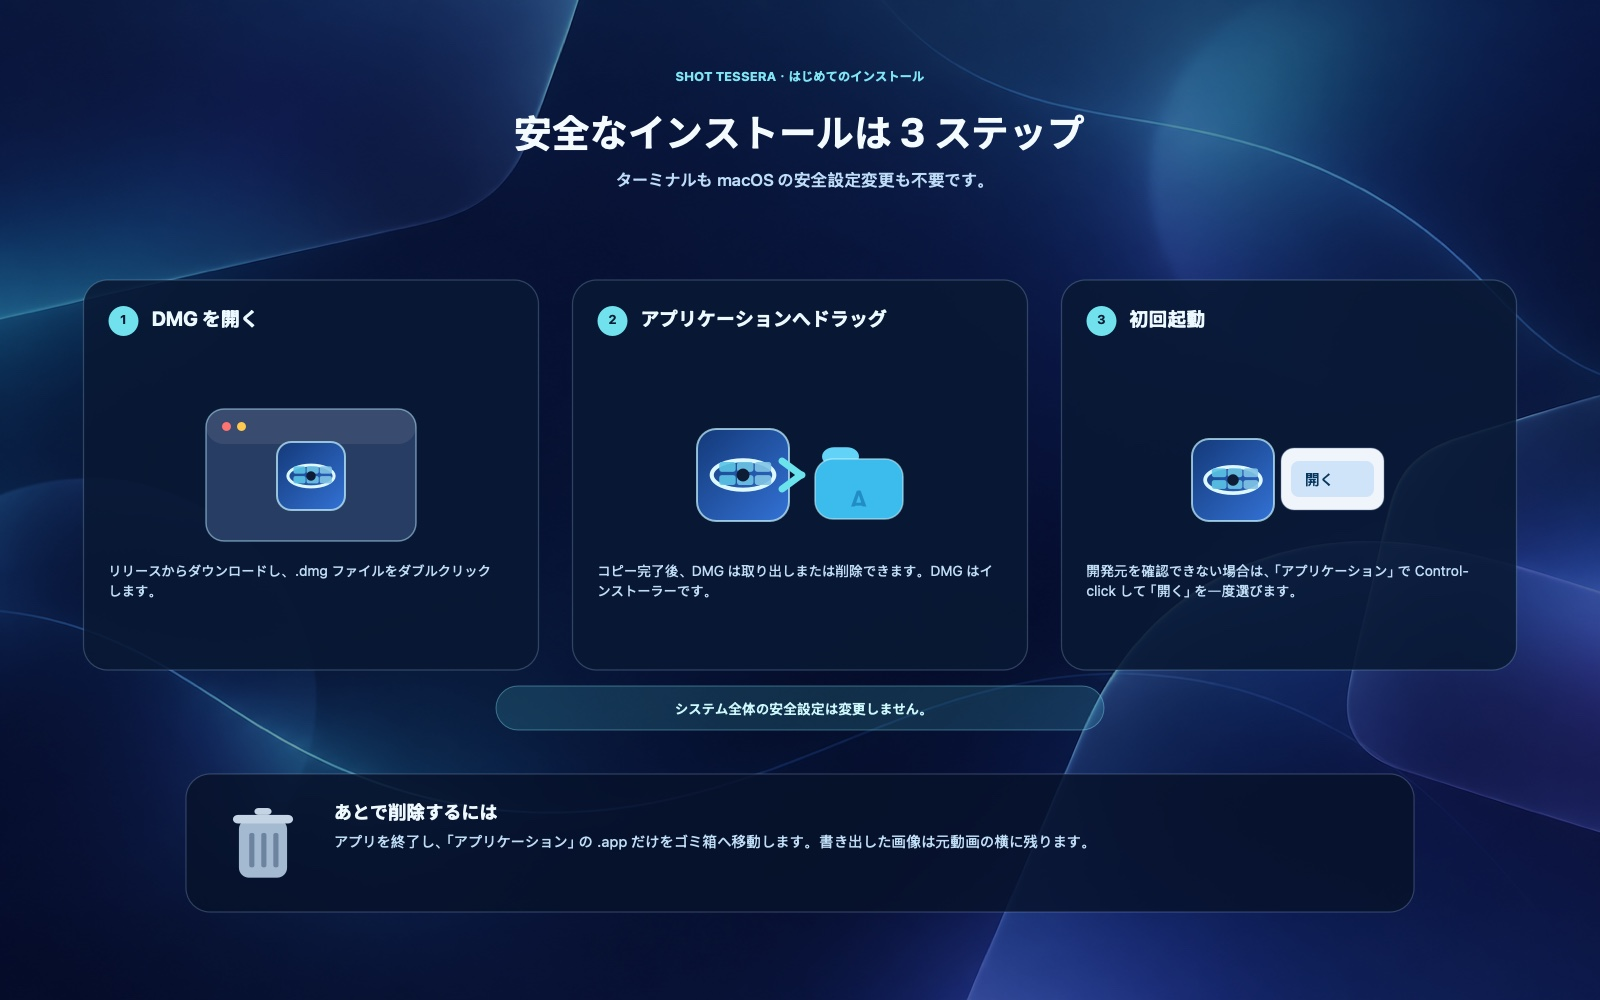
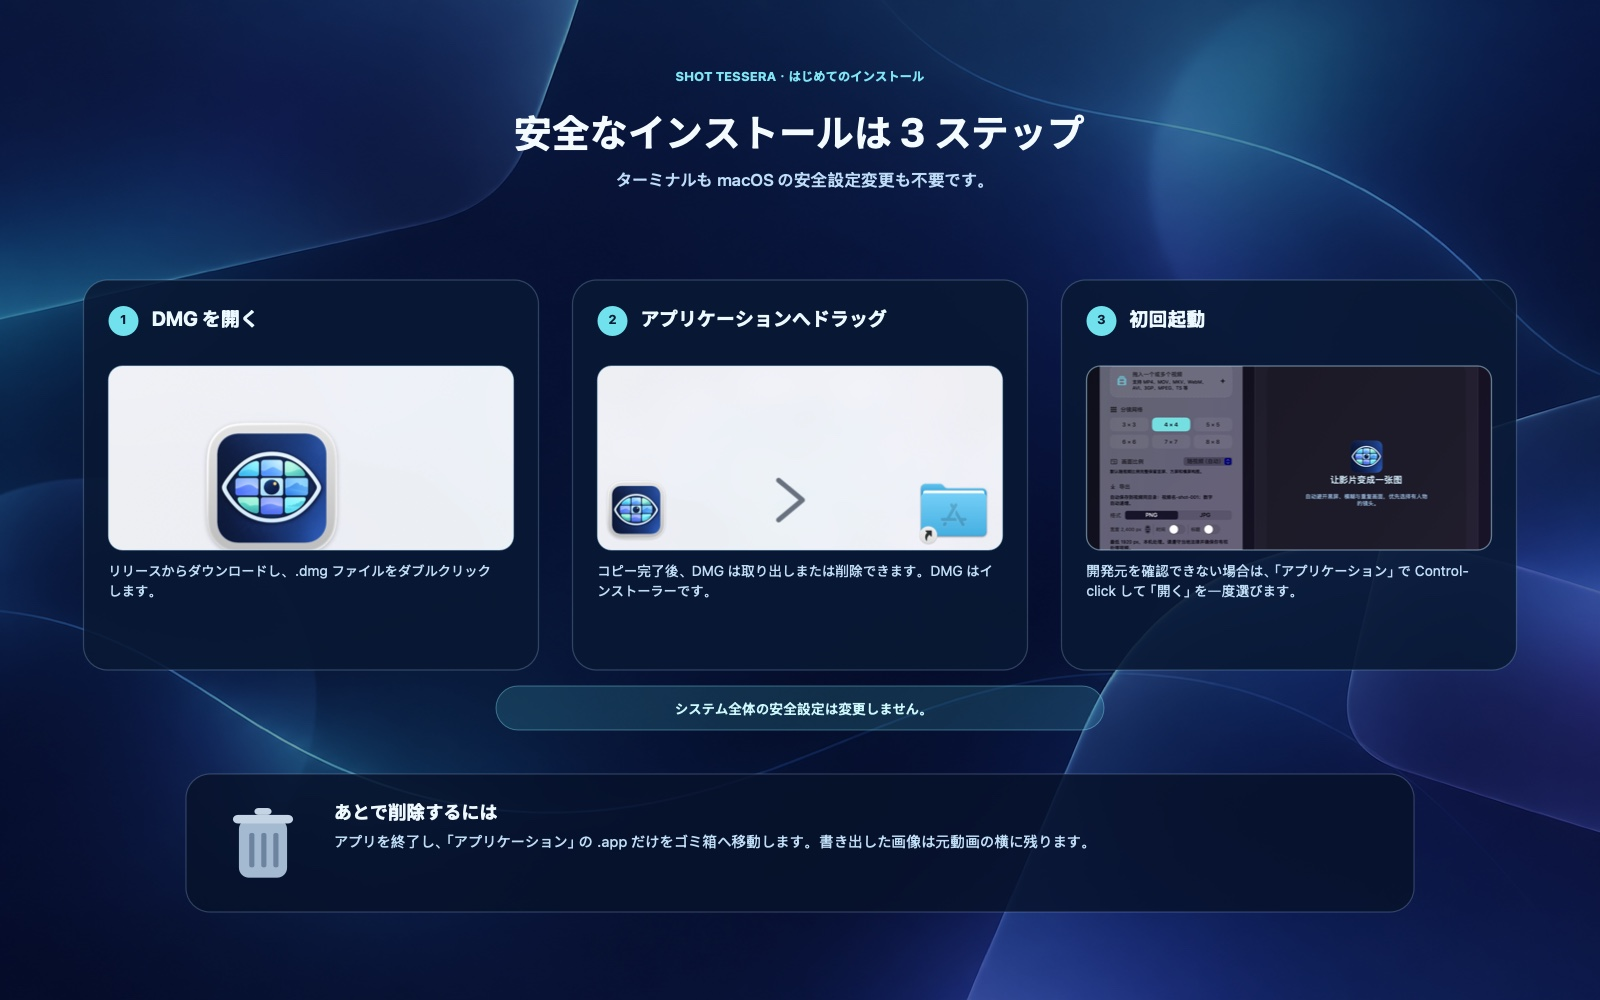
Improve public project presentation

diff --git a/scripts/create_install_guide.swift b/scripts/create_install_guide.swift
@@ -1,9 +1,8 @@
 import AppKit
 import Foundation
 
-/// Renders localized beginner-installation guides using original shapes and a
-/// project-generated background. It contains no Apple screenshots or
-/// third-party icon artwork.
+/// Renders localized beginner-installation guides around approved, real
+/// ShotTessera installation and launch screenshots.
 
 private enum Language: String {
     case english = "en"
@@ -112,79 +111,23 @@ private func text(
     (value as NSString).draw(in: rect, withAttributes: attributes)
 }
 
-private func drawAppIcon(in rect: NSRect) {
-    let gradient = NSGradient(colors: [color(0.07, 0.17, 0.42), color(0.15, 0.34, 0.77)])!
-    gradient.draw(in: rounded(rect, radius: rect.width * 0.21), angle: -45)
-    stroke(rect, color(0.72, 0.94, 1, 0.72), width: 2, radius: rect.width * 0.21)
-    let eye = NSRect(x: rect.minX + rect.width * 0.16, y: rect.midY - rect.height * 0.16, width: rect.width * 0.68, height: rect.height * 0.32)
-    let eyePath = NSBezierPath(ovalIn: eye)
-    color(0.84, 0.97, 1).setStroke()
-    eyePath.lineWidth = max(2, rect.width * 0.045)
-    eyePath.stroke()
-    let tileSize = eye.width / 3.8
-    for row in 0..<2 {
-        for column in 0..<3 {
-            let tile = NSRect(
-                x: eye.minX + eye.width * 0.12 + CGFloat(column) * tileSize * 1.08,
-                y: eye.minY + eye.height * 0.16 + CGFloat(row) * tileSize * 0.8,
-                width: tileSize,
-                height: tileSize * 0.6
-            )
-            fill(tile, color(0.30 + CGFloat(column) * 0.07, 0.72, 0.87, 0.9), radius: tile.width * 0.16)
-        }
-    }
-    fill(NSRect(x: eye.midX - rect.width * 0.07, y: eye.midY - rect.width * 0.07, width: rect.width * 0.14, height: rect.width * 0.14), color(0.05, 0.08, 0.16), radius: rect.width * 0.07)
-}
+private func drawScreenshot(_ image: NSImage, in rect: NSRect, source: NSRect? = nil) {
+    let available = source ?? NSRect(origin: .zero, size: image.size)
+    guard available.width > 0, available.height > 0 else { return }
+    let scale = max(rect.width / available.width, rect.height / available.height)
+    let sourceSize = NSSize(width: rect.width / scale, height: rect.height / scale)
+    let crop = NSRect(
+        x: available.midX - sourceSize.width / 2,
+        y: available.midY - sourceSize.height / 2,
+        width: sourceSize.width,
+        height: sourceSize.height
+    ).intersection(available)
 
-private func drawDmg(in rect: NSRect) {
-    fill(rect, color(0.12, 0.18, 0.32, 0.98), radius: 18)
-    stroke(rect, color(0.65, 0.89, 1, 0.52), width: 1.5, radius: 18)
-    let titleBar = NSRect(x: rect.minX, y: rect.maxY - 35, width: rect.width, height: 35)
-    fill(titleBar, color(1, 1, 1, 0.08), radius: 18)
-    fill(NSRect(x: rect.minX + 16, y: rect.maxY - 22, width: 9, height: 9), color(1, 0.36, 0.37), radius: 4.5)
-    fill(NSRect(x: rect.minX + 31, y: rect.maxY - 22, width: 9, height: 9), color(1, 0.75, 0.25), radius: 4.5)
-    drawAppIcon(in: NSRect(x: rect.midX - 34, y: rect.minY + 31, width: 68, height: 68))
-}
-
-private func drawFolder(in rect: NSRect) {
-    let tab = NSRect(x: rect.minX + rect.width * 0.08, y: rect.maxY - rect.height * 0.32, width: rect.width * 0.42, height: rect.height * 0.24)
-    fill(tab, color(0.33, 0.79, 0.96), radius: 12)
-    fill(NSRect(x: rect.minX, y: rect.minY, width: rect.width, height: rect.height * 0.77), color(0.20, 0.68, 0.91), radius: 18)
-    stroke(NSRect(x: rect.minX, y: rect.minY, width: rect.width, height: rect.height * 0.77), color(0.78, 0.96, 1, 0.55), width: 1.5, radius: 18)
-    text("A", in: NSRect(x: rect.minX, y: rect.minY + rect.height * 0.16, width: rect.width, height: rect.height * 0.30), size: rect.width * 0.32, weight: .medium, color: color(0.08, 0.37, 0.62, 0.65), alignment: .center)
-}
-
-private func drawArrow(from start: NSPoint, to end: NSPoint) {
-    let line = NSBezierPath()
-    line.move(to: start)
-    line.line(to: end)
-    line.lineWidth = 7
-    line.lineCapStyle = .round
-    color(0.36, 0.87, 0.91).setStroke()
-    line.stroke()
-    let head = NSBezierPath()
-    head.move(to: end)
-    head.line(to: NSPoint(x: end.x - 19, y: end.y + 14))
-    head.move(to: end)
-    head.line(to: NSPoint(x: end.x - 19, y: end.y - 14))
-    head.lineWidth = 7
-    head.lineCapStyle = .round
-    head.lineJoinStyle = .round
-    color(0.36, 0.87, 0.91).setStroke()
-    head.stroke()
-}
-
-private func drawMenu(in rect: NSRect, language: Language) {
-    fill(rect, color(0.95, 0.97, 1, 0.98), radius: 13)
-    stroke(rect, color(0.35, 0.44, 0.58, 0.45), width: 1, radius: 13)
-    let openText: String
-    switch language {
-    case .english: openText = "Open"
-    case .chinese: openText = "打开"
-    case .japanese: openText = "開く"
-    }
-    fill(NSRect(x: rect.minX + 10, y: rect.minY + 13, width: rect.width - 20, height: 36), color(0.12, 0.48, 0.92, 0.16), radius: 8)
-    text(openText, in: NSRect(x: rect.minX + 24, y: rect.minY + 22, width: rect.width - 48, height: 18), size: 15, weight: .semibold, color: color(0.04, 0.16, 0.30))
+    NSGraphicsContext.saveGraphicsState()
+    rounded(rect, radius: 14).addClip()
+    image.draw(in: rect, from: crop, operation: .sourceOver, fraction: 1)
+    NSGraphicsContext.restoreGraphicsState()
+    stroke(rect, color(0.71, 0.91, 1, 0.46), width: 1.3, radius: 14)
 }
 
 private func drawTrash(in rect: NSRect) {
@@ -200,7 +143,7 @@ private func drawStep(
     _ index: Int,
     in rect: NSRect,
     copy: (title: String, body: String),
-    language: Language
+    screenshot: NSImage
 ) {
     fill(rect, color(0.035, 0.07, 0.15, 0.88), radius: 24)
     stroke(rect, color(0.66, 0.88, 1, 0.22), width: 1.25, radius: 24)
@@ -208,25 +151,26 @@ private func drawStep(
     text("\(index)", in: NSRect(x: rect.minX + 25, y: rect.maxY - 49, width: 30, height: 18), size: 13, weight: .bold, color: color(0.03, 0.08, 0.15), alignment: .center)
     text(copy.title, in: NSRect(x: rect.minX + 68, y: rect.maxY - 55, width: rect.width - 92, height: 28), size: 20, weight: .bold, color: color(0.91, 0.97, 1))
 
-    let visual = NSRect(x: rect.midX - 105, y: rect.minY + 129, width: 210, height: 132)
+    let visual = NSRect(x: rect.minX + 25, y: rect.minY + 120, width: rect.width - 50, height: 184)
+    let source: NSRect?
     switch index {
     case 1:
-        drawDmg(in: visual)
+        // A close crop makes the mounted app icon legible while keeping the
+        // window chrome visible, so this remains recognisably a real DMG view.
+        source = NSRect(x: 350, y: 250, width: 720, height: 600)
     case 2:
-        let app = NSRect(x: visual.minX + 2, y: visual.minY + 20, width: 92, height: 92)
-        drawAppIcon(in: app)
-        drawArrow(from: NSPoint(x: app.maxX + 13, y: app.midY), to: NSPoint(x: visual.maxX - 104, y: app.midY))
-        drawFolder(in: NSRect(x: visual.maxX - 90, y: visual.minY + 22, width: 88, height: 78))
+        // This wider crop keeps the actual app, arrow and Applications alias in
+        // one captured installer view.
+        source = NSRect(x: 260, y: 335, width: 2_080, height: 740)
     default:
-        let app = NSRect(x: visual.minX + 8, y: visual.minY + 20, width: 82, height: 82)
-        drawAppIcon(in: app)
-        drawMenu(in: NSRect(x: visual.minX + 97, y: visual.minY + 31, width: 103, height: 62), language: language)
+        source = nil
     }
+    drawScreenshot(screenshot, in: visual, source: source)
 
     text(copy.body, in: NSRect(x: rect.minX + 25, y: rect.minY + 30, width: rect.width - 50, height: 78), size: 14, weight: .regular, color: color(0.70, 0.83, 0.95))
 }
 
-private func render(background: NSImage, copy: Copy, language: Language) -> Data {
+private func render(background: NSImage, copy: Copy, screenshots: [NSImage]) -> Data {
     let bitmap = NSBitmapImageRep(
         bitmapDataPlanes: nil,
         pixelsWide: Int(canvas.width),
@@ -258,7 +202,7 @@ private func render(background: NSImage, copy: Copy, language: Language) -> Data
     let originY: CGFloat = 330
     for index in 0..<3 {
         let rect = NSRect(x: originX + CGFloat(index) * (stepWidth + spacing), y: originY, width: stepWidth, height: stepHeight)
-        drawStep(index + 1, in: rect, copy: copy.steps[index], language: language)
+        drawStep(index + 1, in: rect, copy: copy.steps[index], screenshot: screenshots[index])
     }
 
     let safety = NSRect(x: 496, y: 270, width: 608, height: 44)
@@ -277,16 +221,20 @@ private func render(background: NSImage, copy: Copy, language: Language) -> Data
     return bitmap.representation(using: .jpeg, properties: [.compressionFactor: 0.88])!
 }
 
-guard CommandLine.arguments.count == 4,
+guard CommandLine.arguments.count == 6,
       let language = Language(rawValue: CommandLine.arguments[2]) else {
-    fputs("Usage: create_install_guide.swift <background.png> <en|zh|ja> <output.jpg>\n", stderr)
+    fputs("Usage: create_install_guide.swift <background.png> <en|zh|ja> <dmg.png> <launch.png> <output.jpg>\n", stderr)
     exit(64)
 }
 
 let backgroundURL = URL(fileURLWithPath: CommandLine.arguments[1])
-let outputURL = URL(fileURLWithPath: CommandLine.arguments[3])
-guard let background = NSImage(contentsOf: backgroundURL) else {
-    fputs("Could not read background image.\n", stderr)
+let dmgURL = URL(fileURLWithPath: CommandLine.arguments[3])
+let launchURL = URL(fileURLWithPath: CommandLine.arguments[4])
+let outputURL = URL(fileURLWithPath: CommandLine.arguments[5])
+guard let background = NSImage(contentsOf: backgroundURL),
+      let dmg = NSImage(contentsOf: dmgURL),
+      let launch = NSImage(contentsOf: launchURL) else {
+    fputs("Could not read background or required screenshots.\n", stderr)
     exit(66)
 }
-try render(background: background, copy: .forLanguage(language), language: language).write(to: outputURL)
+try render(background: background, copy: .forLanguage(language), screenshots: [dmg, dmg, launch]).write(to: outputURL)

diff --git a/scripts/create_social_preview.swift b/scripts/create_social_preview.swift
@@ -1,0 +1,89 @@
+import AppKit
+import Foundation
+
+/// Adds deterministic, legible product copy to the repository social card.
+/// The source visual remains untouched; this script writes a new sibling file.
+
+private let canvas = NSSize(width: 1280, height: 640)
+
+private func color(_ red: CGFloat, _ green: CGFloat, _ blue: CGFloat, _ alpha: CGFloat = 1) -> NSColor {
+    NSColor(calibratedRed: red, green: green, blue: blue, alpha: alpha)
+}
+
+private func rounded(_ rect: NSRect, radius: CGFloat) -> NSBezierPath {
+    NSBezierPath(roundedRect: rect, xRadius: radius, yRadius: radius)
+}
+
+private func drawText(
+    _ value: String,
+    in rect: NSRect,
+    size: CGFloat,
+    weight: NSFont.Weight,
+    color textColor: NSColor,
+    tracking: CGFloat = 0
+) {
+    let style = NSMutableParagraphStyle()
+    style.lineBreakMode = .byTruncatingTail
+    let attributes: [NSAttributedString.Key: Any] = [
+        .font: NSFont.systemFont(ofSize: size, weight: weight),
+        .foregroundColor: textColor,
+        .kern: tracking,
+        .paragraphStyle: style
+    ]
+    (value as NSString).draw(in: rect, withAttributes: attributes)
+}
+
+guard CommandLine.arguments.count == 3 else {
+    fputs("Usage: create_social_preview.swift <input.jpg> <output.jpg>\n", stderr)
+    exit(64)
+}
+
+let inputURL = URL(fileURLWithPath: CommandLine.arguments[1])
+let outputURL = URL(fileURLWithPath: CommandLine.arguments[2])
+guard let source = NSImage(contentsOf: inputURL) else {
+    fputs("Cannot load input image: \(inputURL.path)\n", stderr)
+    exit(1)
+}
+
+let bitmap = NSBitmapImageRep(
+    bitmapDataPlanes: nil,
+    pixelsWide: Int(canvas.width),
+    pixelsHigh: Int(canvas.height),
+    bitsPerSample: 8,
+    samplesPerPixel: 4,
+    hasAlpha: true,
+    isPlanar: false,
+    colorSpaceName: .deviceRGB,
+    bytesPerRow: 0,
+    bitsPerPixel: 0
+)!
+let context = NSGraphicsContext(bitmapImageRep: bitmap)!
+NSGraphicsContext.saveGraphicsState()
+NSGraphicsContext.current = context
+context.imageInterpolation = .high
+
+source.draw(in: NSRect(origin: .zero, size: canvas), from: .zero, operation: .sourceOver, fraction: 1)
+
+let panel = NSRect(x: 54, y: 442, width: 648, height: 144)
+color(0.012, 0.03, 0.09, 0.72).setFill()
+rounded(panel, radius: 20).fill()
+color(0.42, 0.86, 1, 0.34).setStroke()
+let panelStroke = rounded(panel, radius: 20)
+panelStroke.lineWidth = 1
+panelStroke.stroke()
+
+let pill = NSRect(x: 78, y: 548, width: 86, height: 24)
+color(0.16, 0.76, 0.91, 0.22).setFill()
+rounded(pill, radius: 12).fill()
+drawText("v0.2.3", in: NSRect(x: 92, y: 553, width: 60, height: 16), size: 11, weight: .bold, color: color(0.55, 0.94, 1), tracking: 0.4)
+
+drawText("ShotTessera", in: NSRect(x: 78, y: 500, width: 420, height: 40), size: 34, weight: .bold, color: color(0.95, 0.985, 1))
+drawText("Turn video into storyboards on macOS", in: NSRect(x: 80, y: 474, width: 560, height: 24), size: 18, weight: .semibold, color: color(0.68, 0.88, 1))
+drawText("Smart selection · Fine-tune frames · Fully local", in: NSRect(x: 80, y: 453, width: 560, height: 18), size: 13, weight: .medium, color: color(0.53, 0.76, 0.94), tracking: 0.1)
+
+NSGraphicsContext.restoreGraphicsState()
+guard let data = bitmap.representation(using: .jpeg, properties: [.compressionFactor: 0.83]) else {
+    fputs("Cannot encode JPEG\n", stderr)
+    exit(1)
+}
+try data.write(to: outputURL)

diff --git a/docs/assets/README_DEMO_ASSET.md b/docs/assets/README_DEMO_ASSET.md
@@ -16,21 +16,33 @@ To regenerate the animation on macOS:
 The committed GIF is 960 × 540, contains 12 frames, and is kept intentionally
 small for the README's first-screen loading performance.
 
+No third-party stock footage, photographs, or video clips are used in the
+README. A future real-world case study must come from footage created or
+explicitly licensed by the project and include a source-and-permission record
+before it is published.
+
 ## Installation guides
 
 `install-guide-background.png`, `install-guide-en.jpg`,
-`install-guide-zh.jpg`, and `install-guide-ja.jpg` are original project
-assets. The background was generated solely for this project without using a
-third-party image as a reference; the instructional panels, icons, and all
-text are rendered from project-authored code in
-`scripts/create_install_guide.swift`. They do not reproduce Apple screenshots,
-Apple artwork, or third-party app artwork.
+`install-guide-zh.jpg`, and `install-guide-ja.jpg` are project assets. The
+background and explanatory layout are original project work. The three visual
+cards deliberately use the approved, real ShotTessera screenshots in
+`install-screen-dmg.png` and `install-screen-launch.png`, rather than drawings
+of Finder, the Applications folder, or the app.
+
+Those screenshots show only ShotTessera's installer or its own empty-state UI;
+they contain no user files, third-party apps, or third-party media. They are
+provided by the project owner for this documentation and are released with the
+other original project assets under the [MIT License](../../LICENSE).
 
 To regenerate a guide on macOS:
 
 ```sh
 swift scripts/create_install_guide.swift \
-  docs/assets/install-guide-background.png zh docs/assets/install-guide-zh.jpg
+  docs/assets/install-guide-background.png zh \
+  docs/assets/install-screen-dmg.png \
+  docs/assets/install-screen-launch.png \
+  docs/assets/install-guide-zh.jpg
 ```
 
 Replace `zh` with `en` or `ja` for the other localized guides. These original

diff --git a/README.md b/README.md
@@ -6,6 +6,8 @@
 
 **ShotTessera** is a small native macOS app that turns video into a clean contact sheet, storyboard, or screenshot collage. It is also named **视频一键截屏拼图**.
 
+**Smart selection first. Fine-tune any frame. Export entirely locally.**
+
 > **Latest release:** [v0.2.3 universal DMG](https://github.com/ixiehao/ShotTessera/releases/tag/v0.2.3) · macOS 13+ · Apple Silicon and Intel
 
 ## Download
@@ -37,14 +39,15 @@ To remove it later, quit the app and move only `视频一键截屏拼图.app` fr
 
 ## At a glance
 
-| Add video | Select useful frames | Build the sheet | Export locally |
+| Add video | Smart-select, then fine-tune | Build the sheet | Export locally |
 | --- | --- | --- | --- |
-| Drop one video or queue several. | Detect cuts; avoid black, blurry, and duplicate frames; prefer people when present. | Preview each tile in a 3×3 to 8×8 storyboard grid. | Save a 1920 px+ PNG or JPEG next to the source video. |
+| Drop one video or queue several. | Detect cuts; avoid black, blurry, and duplicate frames; then replace individual tiles manually if needed. | Preview each tile in a 3×3 to 8×8 storyboard grid. | Save a 1920 px+ PNG or JPEG next to the source video. |
 
 ## Features
 
 - Keeps the source video's portrait, square, or landscape composition by default; 16:9, 4:3, 1:1, 3:4, 9:16, and 21:9 are also available.
 - Shows live tiles as each storyboard is assembled and processes multi-video queues sequentially.
+- Opens a lightweight manual selector after generation: keep the smart picks, choose replacement frames, then apply and save.
 - Supports MP4, MOV, MPEG, and more (codec support depends on macOS).
 - Optionally adds timecodes and a large translucent title based on the video filename.
 - Switch the interface between 中文, English, and 日本語; the chosen language is remembered.

diff --git a/docs/GITHUB_METADATA.md b/docs/GITHUB_METADATA.md
@@ -16,12 +16,11 @@ social preview. Keep the public metadata below aligned with the stable release.
 
 ## Social-preview copy
 
-**视频一键截屏拼图 · ShotTessera**
+**ShotTessera · Turn video into storyboards on macOS**
 
-Turn a video into a clean screenshot collage or storyboard on macOS. Local,
-fast, private, and open source.
+Smart frame selection, optional manual fine-tuning, and fully local export.
 
-Use [`docs/assets/social-preview.jpg`](assets/social-preview.jpg) for the
+Use [`docs/assets/social-preview-v2.jpg`](assets/social-preview-v2.jpg) for the
 repository social preview. It is a 1280 × 640 px JPEG and remains below
 GitHub's 1 MB recommendation.
 
